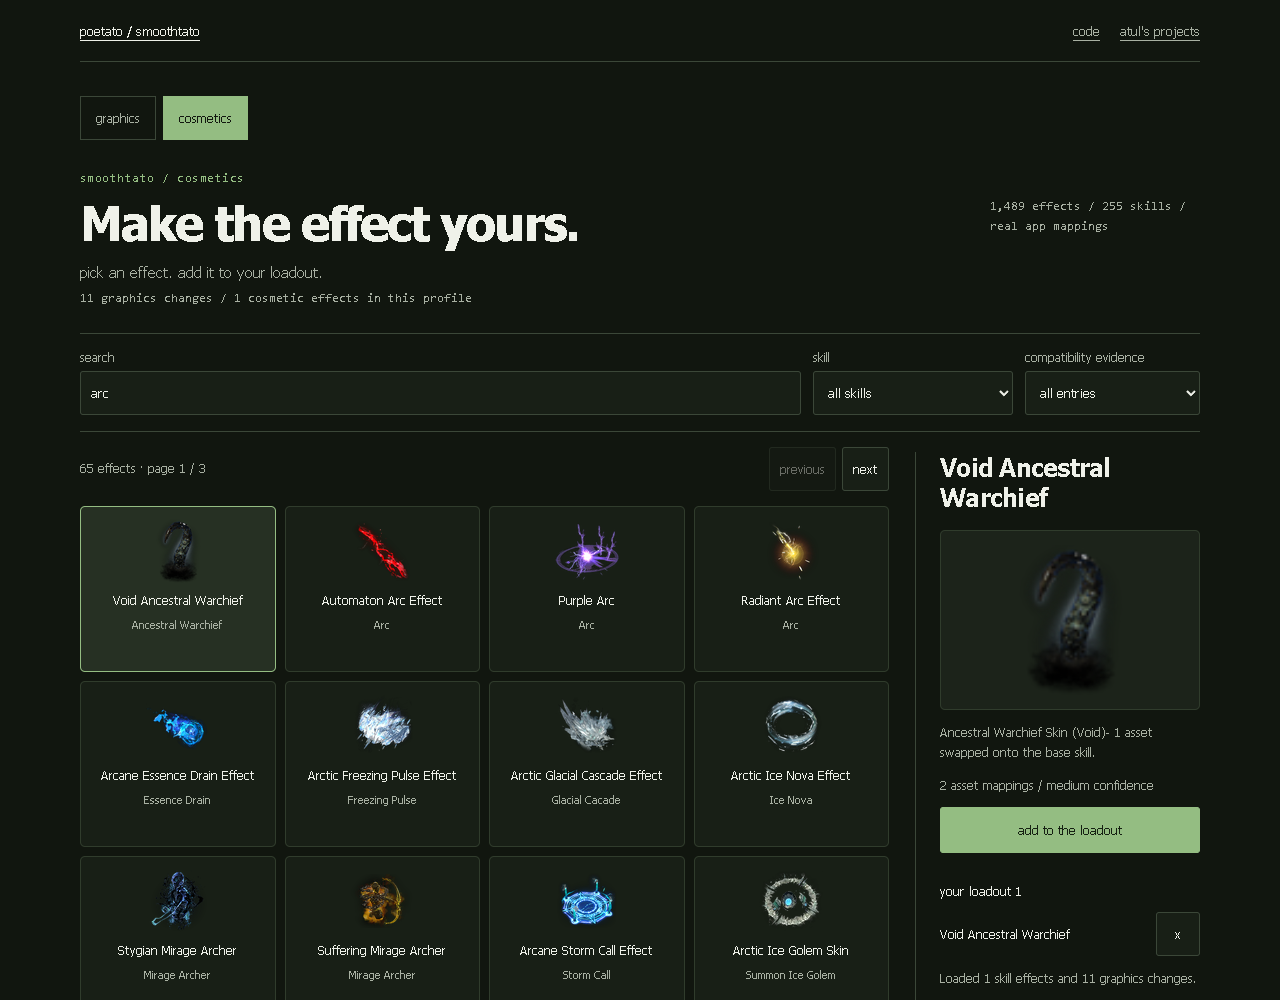
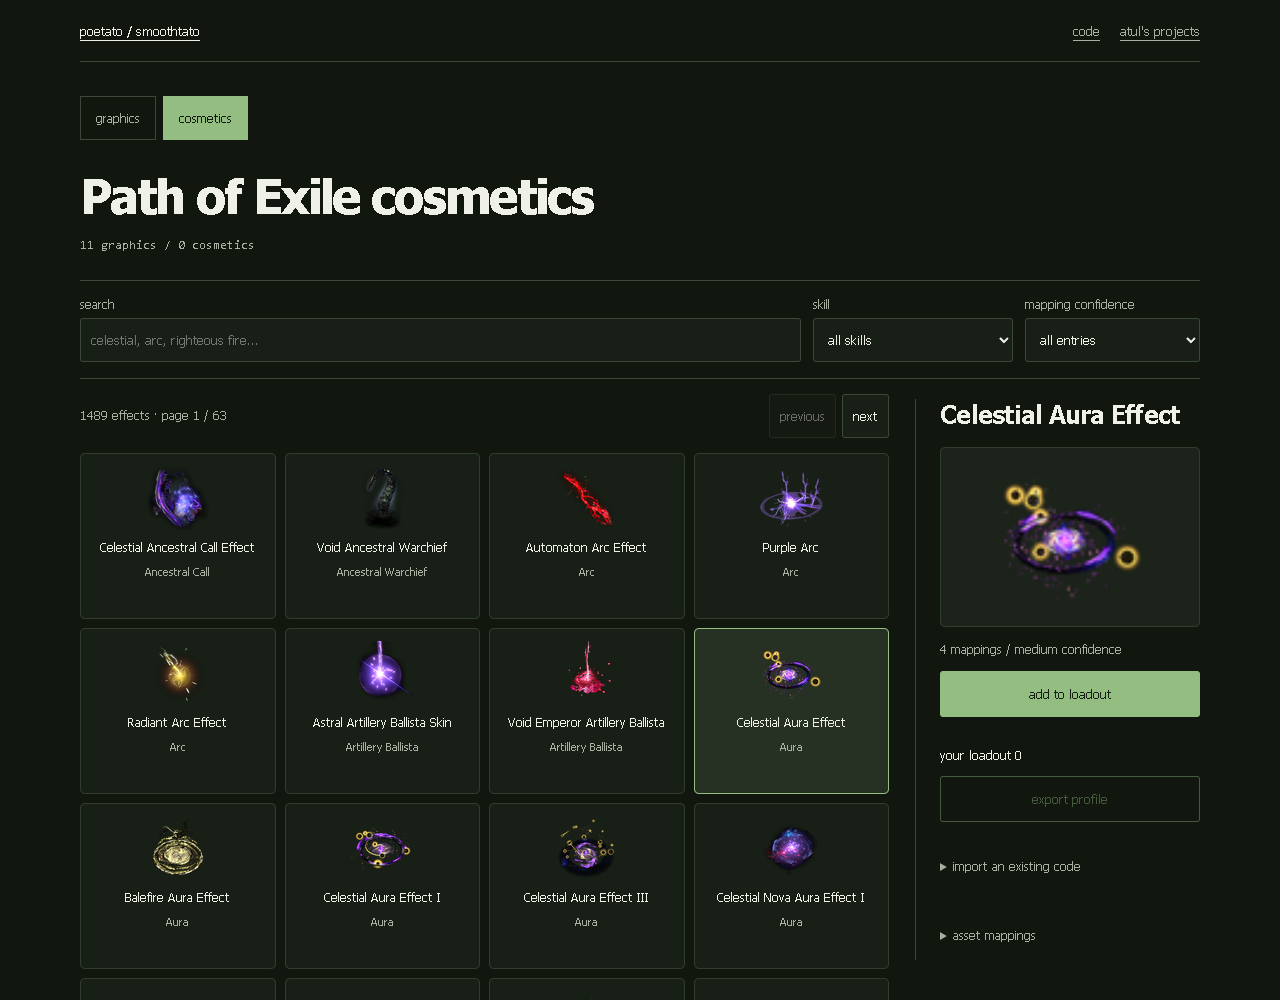
Cull graphics and cosmetics copy with concise switch labels

diff --git a/examples/portfolio/index.html b/examples/portfolio/index.html
@@ -13,12 +13,12 @@
 <header><a href="https://lolstar123.github.io/just-a-little-further/">atul / smoothtato</a><nav><a href="https://github.com/LolStar123/smoothtato-preview">source</a></nav></header>
 <main>
     <nav class="tool-tabs" aria-label="Smoothtato tools"><a href="./" aria-current="page">graphics</a><a href="cosmetics/">cosmetics</a></nav>
-    <section class="hero" aria-labelledby="page-title"><h1 id="page-title">smoothtato</h1><p>Path of Exile graphics and cosmetics.<br>One profile for both.</p></section>
-    <p id="profile-summary" class="profile-summary">Loading your graphics and cosmetics profile...</p>
+    <section class="hero" aria-labelledby="page-title"><h1 id="page-title">Path of Exile</h1></section>
+    <p id="profile-summary" class="profile-summary">Loading profile...</p>
 
     <section class="workbench" aria-label="Live graphics preset preview">
         <div class="preview-panel">
-            <div class="preview-head"><strong>effect sketch</strong><span id="preview-state">loading switches...</span></div>
+            <div class="preview-head"><strong>Illustration</strong><span id="preview-state">loading switches...</span></div>
             <div id="game-preview" class="game-preview" role="img" aria-label="Illustrated encounter showing the effect groups retained by your graphics selections">
                 <span class="moon"></span><span class="fog fog-a"></span><span class="fog fog-b"></span>
                 <span class="water"></span><span class="ground ground-a"></span><span class="ground ground-b"></span>
@@ -29,26 +29,24 @@
                 <span class="particle p1"></span><span class="particle p2"></span><span class="particle p3"></span><span class="particle p4"></span>
                 <span class="rain r1"></span><span class="rain r2"></span><span class="rain r3"></span><span class="rain r4"></span><span class="rain r5"></span>
             </div>
-            <div class="noise-readout"><span id="scene-layers">Illustrated effect groups</span><strong id="differences">preset unchanged</strong></div>
-            <div class="comparison"><span>Illustration, not game footage or an FPS estimate.</span><button id="compare" aria-pressed="false">Compare Original</button></div>
+            <div class="comparison"><button id="compare" aria-pressed="false">Compare Original</button></div>
         </div>
 
         <aside class="preset-panel">
             <div class="preset-title"><span>graphics preset</span></div>
             <div id="presets"></div>
-            <p id="preset-description"></p>
+            <details><summary>preset details</summary><p id="preset-description"></p></details>
             <div class="actions"><button id="export">export profile</button><button id="restore">restore Original</button></div>
         </aside>
     </section>
 
     <section class="switchboard" aria-label="Graphics switches">
-        <div class="controls"><label>find a switch<input id="search" type="search" placeholder="rain, bloom, particles..."></label><label>show<select id="filter"><option value="enabled">this preset</option><option value="all">all switches</option><option value="changed">my changes</option></select></label><label class="group-control">category<select id="group"><option value="">all</option></select></label></div>
-        <p id="switch-count" class="switch-count" aria-live="polite"></p>
+        <div class="controls"><label>search<input id="search" type="search" placeholder="rain, bloom, particles..."></label><label>show<select id="filter"><option value="enabled">this preset</option><option value="all">all switches</option><option value="changed">my changes</option></select></label><label class="group-control">category<select id="group"><option value="">all</option></select></label></div>
         <section id="categories" aria-label="Graphics switches"></section>
     </section>
 
-    <details><summary>import a graphics and cosmetics profile</summary><textarea id="code" rows="3" aria-label="STATO1 code"></textarea><button id="import">import profile</button></details>
-    <p id="status" role="status"></p><footer id="provenance"></footer>
+    <details><summary>import profile</summary><textarea id="code" rows="3" aria-label="STATO1 code"></textarea><button id="import">import profile</button></details>
+    <p id="status" role="status"></p><footer><a href="https://github.com/LolStar123/smoothtato-preview#readme">README</a></footer>
 </main>
 <script type="module" src="app.mjs"></script>
 </body>

diff --git a/examples/portfolio/cosmetics/index.html b/examples/portfolio/cosmetics/index.html
@@ -20,13 +20,10 @@
         <main><nav class="tool-tabs" aria-label="Smoothtato tools"><a href="../">graphics</a><a href="./" aria-current="page">cosmetics</a></nav>
             <div class="title">
                 <div>
-                    <p class="eyebrow">smoothtato / cosmetics</p>
-                    <h1>Make the effect yours.</h1>
+                                        <h1>Path of Exile cosmetics</h1>
                 </div>
-                <p id="summary">loading the wardrobe...</p>
             </div>
-            <p class="journey">pick an effect. add it to your loadout.</p>
-            <p id="profile-summary" class="profile-summary">Loading your graphics and cosmetics profile...</p>
+            <p id="profile-summary" class="profile-summary">Loading profile...</p>
             <div class="filters">
                 <label
                     >search<input
@@ -38,7 +35,7 @@
                         <option value="">all skills</option>
                     </select></label
                 ><label
-                    >compatibility evidence<select id="confidence">
+                    >mapping confidence<select id="confidence">
                         <option value="">all entries</option>
                         <option>HIGH</option>
                         <option>MEDIUM</option>
@@ -64,9 +61,8 @@
                     >
                     <h2 id="effect-title" tabindex="-1">select an effect</h2>
                     <div id="preview"></div>
-                    <p id="blurb"></p>
                     <p id="evidence"></p>
-                    <button id="add">add to the loadout</button>
+                    <button id="add">add to loadout</button>
                     <h3>your loadout <span id="loadout-count">0</span></h3>
                     <div id="loadout"></div>
                     <p id="status" role="status"></p>
@@ -81,18 +77,12 @@
                         ><button id="import">import profile</button>
                     </details>
                     <details>
-                        <summary>inspect asset mappings</summary>
-                        <pre id="pairs"></pre>
+                        <summary>asset mappings</summary>
+                        <p id="blurb"></p><pre id="pairs"></pre>
                     </details>
                 </aside>
             </div>
-            <footer>
-                Export saves your graphics changes and skill-effect loadout in one
-                STATO1 share code. The browser does not patch game files. Mapping
-                confidence comes from the actual app catalogue; it is not a
-                guarantee that an effect works on every game version. Preview
-                artwork belongs to its respective owner.
-            </footer>
+            <footer><a href="https://github.com/LolStar123/smoothtato-preview#readme">Compatibility &amp; credits</a></footer>
         </main>
         <script type="module" src="app.mjs"></script>
     </body>

diff --git a/tools/cosmetics_audit.py b/tools/cosmetics_audit.py
@@ -31,7 +31,7 @@ try:
         assert code.startswith('STATO1-')
         page.locator('#import-code').fill(code) if page.locator('#import-code').is_visible() else page.locator('summary').first.click()
         page.locator('#import-code').fill(code);page.locator('#import').click()
-        page.wait_for_function('document.querySelector("#status").textContent.startsWith("Loaded")')
+        page.wait_for_function('document.querySelector("#status").textContent === "Profile imported"')
         assert page.locator('#preview img').evaluate('(e)=>e.complete&&e.naturalWidth>0')
         page.evaluate('window.scrollTo(0,0)')
         page.screenshot(path=str(ROOT/'examples/portfolio/cosmetics/preview.png'))
@@ -68,15 +68,15 @@ try:
         page.goto(page.url.split('/cosmetics/')[0]+'/',wait_until='networkidle')
         page.wait_for_function('window.__smooth?.ready')
         assert page.evaluate('__smooth.chosen.length')==11
-        assert '1 cosmetic effects' in page.locator('#profile-summary').inner_text()
+        assert '1 cosmetics' in page.locator('#profile-summary').inner_text()
         with page.expect_download() as dl:page.locator('#export').click()
         assert Path(dl.value.path()).read_text()==code
         page.locator('#restore').click()
-        assert '1 cosmetic effects' in page.locator('#profile-summary').inner_text()
+        assert '1 cosmetics' in page.locator('#profile-summary').inner_text()
         page.locator('a[href="cosmetics/"]').click()
         page.wait_for_function('window.__mtx?.ready')
         assert page.evaluate('__mtx.chosen')==before
-        assert '0 graphics changes' in page.locator('#profile-summary').inner_text()
+        assert '0 graphics' in page.locator('#profile-summary').inner_text()
         page.locator('#catalogue .effect').first.focus();page.keyboard.press('Enter')
         assert page.locator('#effect-title').evaluate('(el)=>el===document.activeElement')
         assert page.locator('#effect-title').evaluate('(el)=>getComputedStyle(el).outlineWidth')=='2px'

diff --git a/tools/browser_audit.py b/tools/browser_audit.py
@@ -31,7 +31,7 @@ try:
         assert code.startswith('STATO1-')
         page.locator('#restore').click()
         assert page.evaluate('__smooth.chosen.length')==0
-        if not page.locator('#code').is_visible():page.locator('summary').first.click()
+        if not page.locator('#code').is_visible():page.locator('details').filter(has=page.locator('#code')).locator('summary').click()
         page.locator('#code').fill(code);page.locator('#import').click()
         page.wait_for_function('__smooth.chosen.length===38')
         page.locator('#search').fill('')
@@ -68,7 +68,7 @@ try:
         assert page.locator('.bloom').evaluate('(el)=>getComputedStyle(el).animationName')=='none'
         page.emulate_media(reduced_motion='reduce')
         assert page.locator('.particle').first.evaluate('(el)=>getComputedStyle(el).animationName')=='none'
-        if not page.locator('#code').is_visible():page.locator('summary').first.click()
+        if not page.locator('#code').is_visible():page.locator('details').filter(has=page.locator('#code')).locator('summary').click()
         page.locator('#code').fill('broken-code');page.locator('#import').click()
         assert 'STATO1' in page.locator('#status').inner_text()
         assert page.evaluate('__smooth.chosen.length')==37
